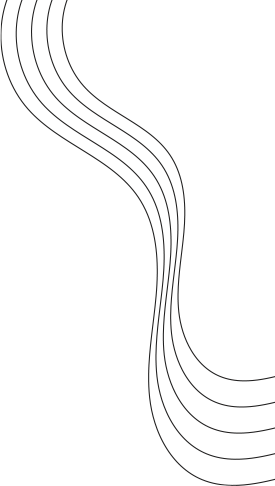
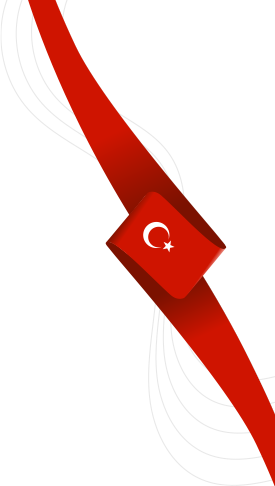
2nd commit

diff --git a/public/assets/css/main.css b/public/assets/css/main.css
@@ -1445,7 +1445,7 @@ a:hover {
 	right: 0;
 	top: 0;
 	z-index: -1;
-	opacity: 0.1;
+	opacity: 1;
 }
 
 .hero-area-one .hero-text .tagline {
@@ -1606,7 +1606,7 @@ a:hover {
 	right: 0;
 	top: 0;
 	z-index: -1;
-	opacity: 0.1;
+	opacity: 1;
 }
 
 /*======= Page Title =======*/
